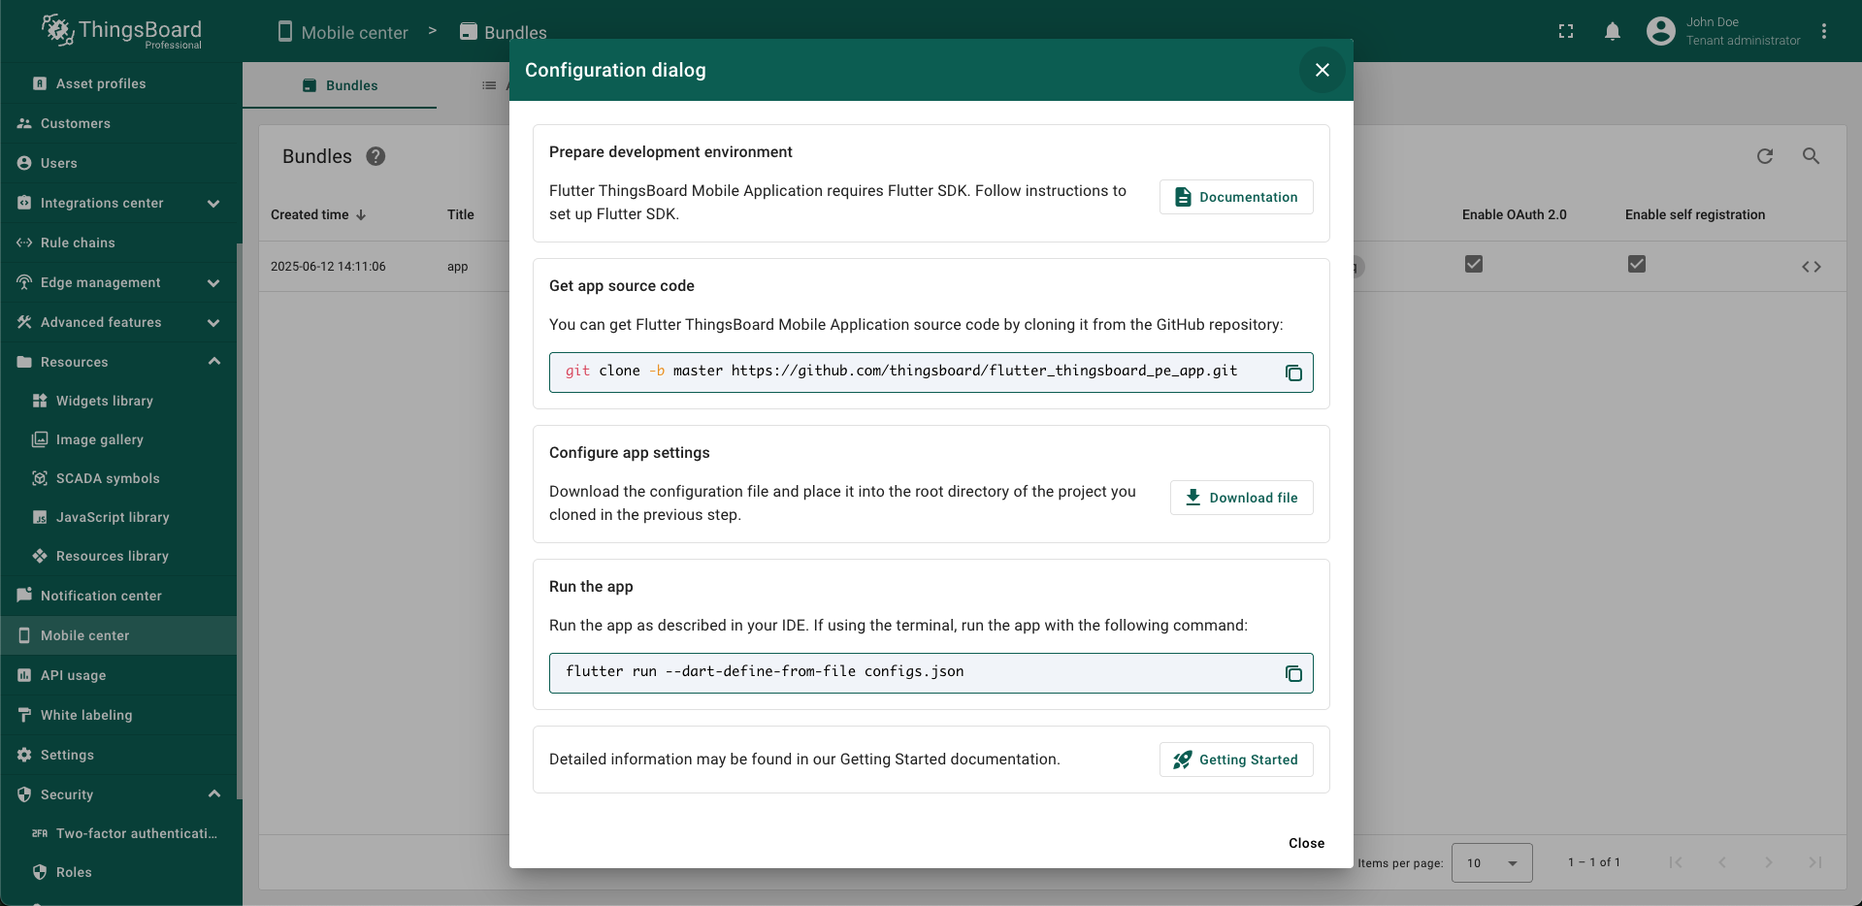
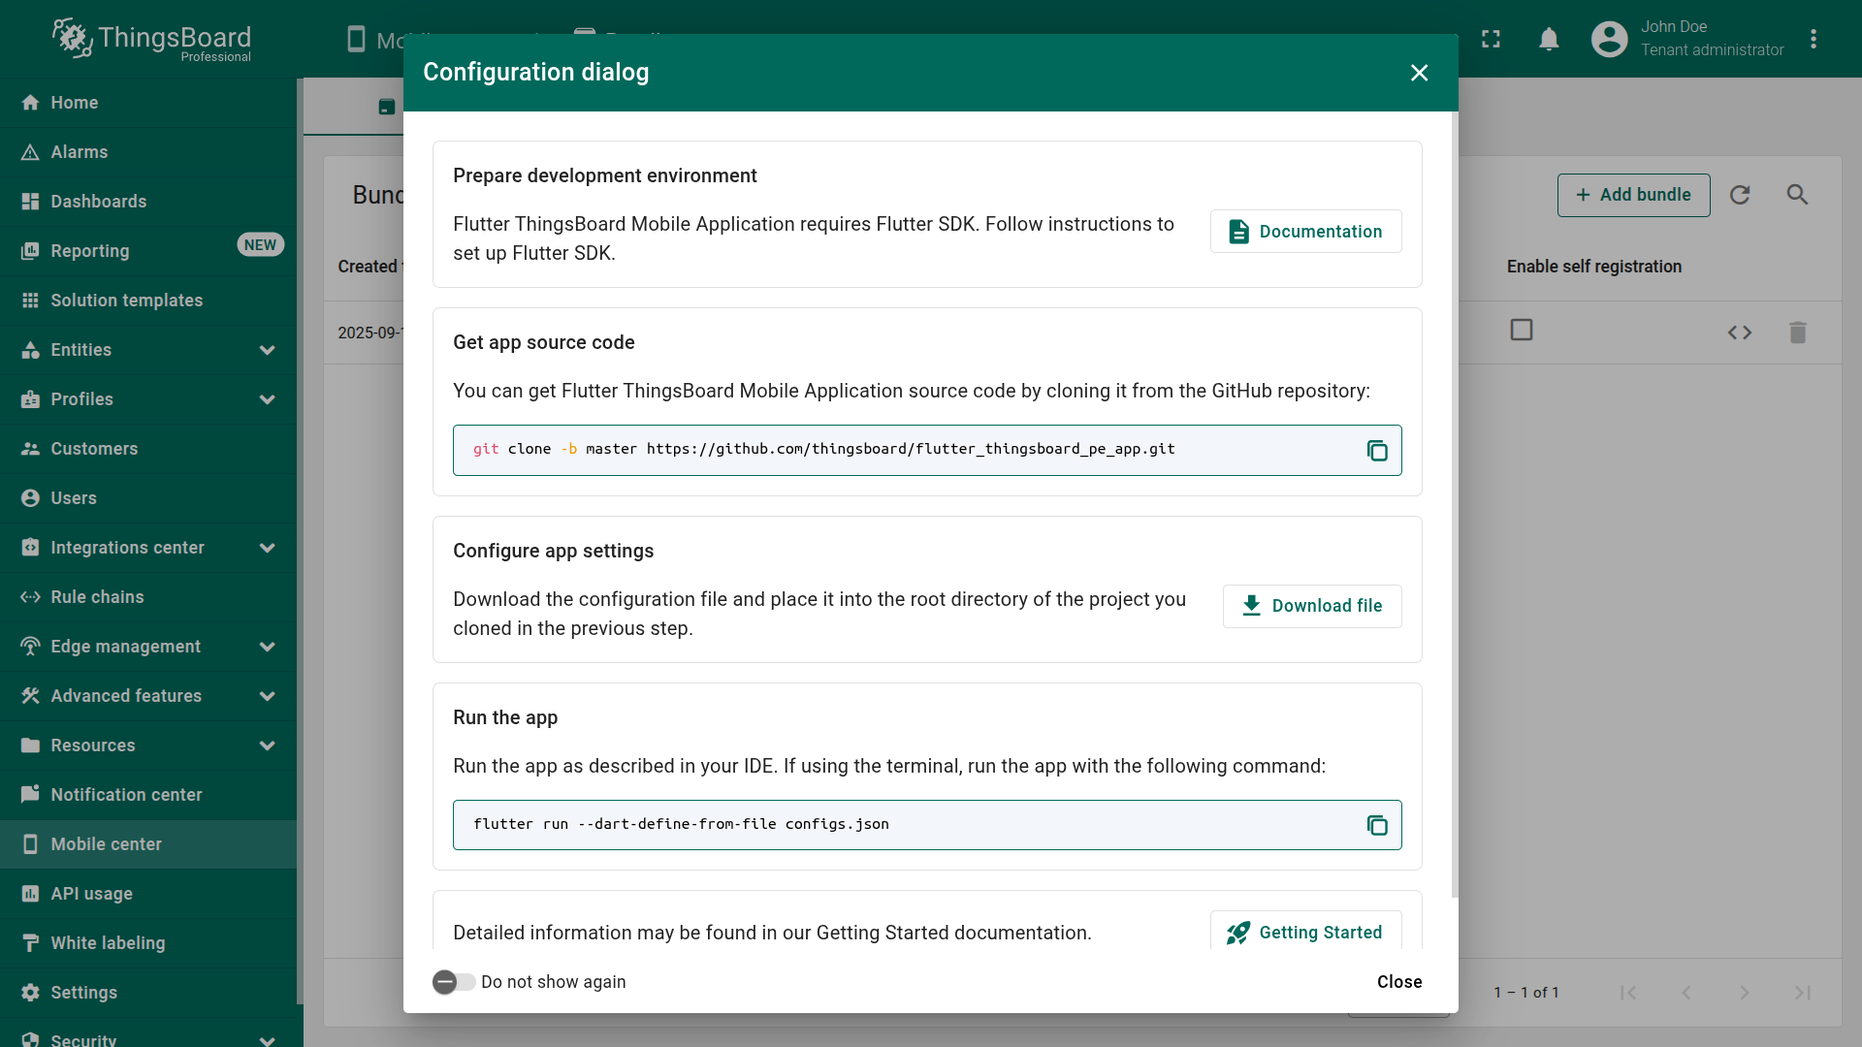
Updated Getting started

Changed region(s): [[0.0, 0.0, 1.0, 1.0], [0.9838, 0.9936, 1.0, 1.0], [0.9531, 0.3105, 0.9838, 0.3415]]

diff --git a/_includes/docs/mobile/getting-started.md b/_includes/docs/mobile/getting-started.md
@@ -17,50 +17,44 @@
 * TOC
 {:toc}
 
-Welcome! This guide will walk you through building and setting up a custom {{appPrefix}} mobile application from scratch for your own instance of the {{appPrefix}} platform.
+Welcome! This guide walks you through creating and configuring your own {{appPrefix}} mobile application from scratch for your {{appPrefix}} instance.
 
-**Before you begin:** Choose an appropriate mobile app version for your {{appPrefix}} platform version using the [compatibility table](/docs/{% if docsPrefix == 'pe/' %}pe/{% endif %}mobile/#compatibility-table). Using incompatible versions may cause sign-in issues or unexpected behavior.
+**Before you begin**, choose the mobile app version that matches your ThingsBoard platform using the [compatibility matrix](/docs/{% if docsPrefix == 'pe/' %}pe/{% endif %}mobile/#compatibility-table). Using incompatible versions is the most common cause of sign‑in issues or unexpected behavior.
 
 ## Prerequisites
 
-{% if docsPrefix == "pe/" or docsPrefix == "paas/" or docsPrefix == "paas/eu/" %}
-- You will need to have access to ThingsBoard Professional Edition. The easiest way is to use [ThingsBoard Cloud](https://thingsboard.io/installations/choose-region/){:target="_blank"} server.
-The alternative option is to install ThingsBoard PE using [installation guide](/docs/user-guide/install/pe/installation-options/){:target="_blank"}.
-{% else %}  
-- You will need to have access to ThingsBoard. The easiest way is to use [Live Demo](https://demo.thingsboard.io/signup){:target="_blank"}. 
-The alternative option is to install ThingsBoard using [installation guide](/docs/user-guide/install/installation-options/){:target="_blank"}.
-{% endif %}
-
-- Prepare the environment for building your {{appPrefix}} mobile application. Install the appropriate Flutter SDK version for your app version from the [compatibility table](/docs/{% if docsPrefix == 'pe/' %}pe/{% endif %}mobile/#compatibility-table) by following [these instructions](https://flutter.dev/docs/get-started/install){:target="_blank"}.
-- For the best development experience and performance, we also recommend configuring your IDE (such as Visual Studio Code) using [these guidelines](https://flutter.dev/docs/get-started/editor){:target="_blank"}.
-- You can also check out the documentation on how to [write your first Flutter app](https://flutter.dev/docs/get-started/test-drive){:target="_blank"}.
+- Access to a {{appPrefix}} instance. The easiest way is to use {{cloudApp}}{:target="_blank"} server. Alternatively, install {{appPrefix}} using the official [installation guide](/docs/user-guide/install/{{docsPrefix}}installation-options/){:target="_blank"}.
+- Prepare the environment for building the {{appPrefix}} mobile application:
+  - [Install the Flutter SDK](https://flutter.dev/docs/get-started/install){:target="_blank"} version that corresponds to your app version (see the [compatibility matrix](/docs/{% if docsPrefix == 'pe/' %}pe/{% endif %}mobile/#compatibility-table){:target="_blank"}).
+  - (Recommended) [Configure your IDE (e.g., Visual Studio Code)](https://flutter.dev/docs/get-started/editor){:target="_blank"} for Flutter development.
+  - If you&#39;re new to Flutter, [review the "Write your first Flutter app" tutorial](https://flutter.dev/docs/get-started/test-drive){:target="_blank"}.
 
 ## Step 1: Create a bundle in the Mobile center
 
-The [Mobile center](/docs/{{docsPrefix}}mobile-center/mobile-center/){:target="_blank"} is your control hub for creating, configuring, and managing mobile applications for your {{appPrefix}} instance. 
-It allows you to quickly launch a custom {{appPrefix}} mobile application tailored to your platform.
+The [Mobile center](/docs/{{docsPrefix}}mobile-center/mobile-center/){:target="_blank"} is your control hub to create, configure, and manage mobile apps. 
+It lets you quickly launch a mobile app tailored to your {{appPrefix}} platform.
 
 <b><font size="4">Create a new bundle</font></b>
 
 A [bundle](/docs/{{docsPrefix}}mobile-center/mobile-center/#bundle){:target="_blank"} contains both your Android and/or iOS app configurations — including [OAuth 2.0](/docs/{{docsPrefix}}user-guide/oauth-2-support/){:target="_blank"} settings {% if docsPrefix == null %}and [layout](/docs/mobile-center/mobile-center/#layout){:target="_blank"} preferences{% endif %}{% if docsPrefix == "pe/" or docsPrefix == "paas/" or docsPrefix == "paas/eu/" %}, [layout](/docs/pe/mobile-center/mobile-center/#layout){:target="_blank"} preferences, and [self registration](/docs/pe/mobile-center/mobile-center/#self-registration){:target="_blank"} options{% endif %} — all in one place for easier setup.
 
 Add a new bundle: 
-- Navigate to the "**Mobile center**" page.
-- On the "**Bundle**" tab, click the "**+ Add bundle**" button in the upper-right corner of the window. 
+- Go to the "**Mobile center**" page.
+- On the "**Bundle**" tab, click the "**+ Add bundle**" button in the top-right corner.
 
-The bundle creation window will open.
+The create bundle dialog opens.
 
 {% assign addNewBundleCE = '
     ===
         image: /images/mobile-center/add-new-bundle-1-ce.png,
-        title: To add a new bundle, navigate to the "**Mobile center**" page and, on the "**Bundle**" tab, click the "**+ Add bundle**" button in the upper-right corner of the window.
+        title: Go to the "**Mobile center**" page → "**Bundle**" tab, then click "**+ Add bundle**" in the upper-right corner.
 '
 %}
 
 {% assign addNewBundlePE = '
     ===
         image: /images/mobile-center/add-new-bundle-1-pe.png,
-        title: To add a new bundle, navigate to the "**Mobile center**" page and, on the "**Bundle**" tab, click the "**+ Add bundle**" button in the upper-right corner of the window.
+title: Go to the "**Mobile center**" page → "**Bundle**" tab, then click "**+ Add bundle**" in the upper-right corner.
 '
 %}
 
@@ -72,48 +66,51 @@ The bundle creation window will open.
 
 <br><b><font size="4">Basic settings</font></b>
 
-Enter the **bundle name** and choose the **mobile app platform(s)** — **Android** or **iOS** — then click "**Create new**" in the corresponding section and proceed with the next steps:
+- Enter a **bundle title**.
+- Click "**Create new**" next to your target mobile platform (**Android** or **iOS**).   
+  This opens the **Add application** dialog:
+  - Enter the **application package** name.
+  - An **Application Secret** will be generated automatically (you can also set your own).
+  - Set the **Published** application status – application is ready for release.
+  - (Optional) Specify **minimum** and **latest** app versions + release notes.
+  - Add **store information**:
+      - for **Android**: 
+        - **Google Play Store link** and **SHA256 certificate fingerprints**.
+      - for **iOS**: 
+        - **App Store link** and **App ID**.
+  - Click "**Add**" to save and continue.
 
-- Enter the **application package** name.
-- An **Application Secret** will be generated automatically (you can also set your own).
-- Set the **Published** application status – application is ready for release.
-- (Optional) Specify minimum and latest app versions + release notes.
-- Add **store information**:
-    - **Android**: **Google Play Store link** and **SHA256 certificate fingerprints**.
-    - **iOS**: **App Store link** and **App ID**.
-- Click "**Add**" to save and continue.
-
-Then click "**Next**".
+- Then click "**Next**".
 
 {% assign addNewBundleCE2 = '
     ===
         image: /images/mobile/getting-started/add-new-bundle-2-ce.png,
-        title: **Android Application**. Enter the **application package** name. Remember autogenerated "**Application Secret**" or input your own. Specify application statuses. Optionally, specify the minimum and latest application versions along with release notes for each. Specify store information: link to the ThingsBoard PE Mobile Application in the Google Play Store, and **SHA256 certificate fingerprints**. Click "**Add**".
-    ===
-        image: /images/mobile/getting-started/add-new-bundle-3-ce.png,
-        title: **iOS Application**. Enter the **application package** name. Remember autogenerated "**Application Secret**" or input your own. Specify application statuses. Optionally, specify the minimum and latest application versions along with release notes for each. Specify store information: link to the ThingsBoard PE Mobile Application in the App Store, and **App ID**. Click "**Add**".
-    ===
-        image: /images/mobile/getting-started/add-new-bundle-4-ce.png,
         title: Click "**Create new**" in the appropriate section (Android Application or iOS Application).
     ===
-        image: /images/mobile/getting-started/add-new-bundle-5-ce.png,
+        image: /images/mobile/getting-started/add-new-bundle-3-ce.png,
         title: **Android Application**. Enter the **application package** name. Remember autogenerated "**Application Secret**" or input your own. Specify application statuses. Optionally, specify the minimum and latest application versions along with release notes for each. Specify store information: link to the ThingsBoard PE Mobile Application in the Google Play Store, and **SHA256 certificate fingerprints**. Click "**Add**".
+    ===
+        image: /images/mobile/getting-started/add-new-bundle-4-ce.png,
+        title: **iOS Application**. Enter the **application package** name. Remember autogenerated "**Application Secret**" or input your own. Specify application statuses. Optionally, specify the minimum and latest application versions along with release notes for each. Specify store information: link to the ThingsBoard PE Mobile Application in the App Store, and **App ID**. Click "**Add**".
+    ===
+        image: /images/mobile/getting-started/add-new-bundle-5-ce.png,
+        title: Click "**Next**".
 '
 %}
 
 {% assign addNewBundlePE2 = '
     ===
         image: /images/mobile/getting-started/add-new-bundle-2-pe.png,
-        title: **Android Application**. Enter the **application package** name. Remember autogenerated "**Application Secret**" or input your own. Specify application statuses. Optionally, specify the minimum and latest application versions along with release notes for each. Specify store information: link to the ThingsBoard PE Mobile Application in the Google Play Store, and **SHA256 certificate fingerprints**. Click "**Add**".
-    ===
-        image: /images/mobile/getting-started/add-new-bundle-3-pe.png,
-        title: **iOS Application**. Enter the **application package** name. Remember autogenerated "**Application Secret**" or input your own. Specify application statuses. Optionally, specify the minimum and latest application versions along with release notes for each. Specify store information: link to the ThingsBoard PE Mobile Application in the App Store, and **App ID**. Click "**Add**".
-    ===
-        image: /images/mobile/getting-started/add-new-bundle-4-pe.png,
         title: Click "**Create new**" in the appropriate section (Android Application or iOS Application).
     ===
+        image: /images/mobile/getting-started/add-new-bundle-3-pe.png,
+        title: **Android Application**. Enter the **application package** name. Remember autogenerated "**Application Secret**" or input your own. Specify application statuses. Optionally, specify the minimum and latest application versions along with release notes for each. Specify store information: link to the ThingsBoard PE Mobile Application in the Google Play Store, and **SHA256 certificate fingerprints**. Click "**Add**". 
+    ===
+        image: /images/mobile/getting-started/add-new-bundle-4-pe.png,
+        title: **iOS Application**. Enter the **application package** name. Remember autogenerated "**Application Secret**" or input your own. Specify application statuses. Optionally, specify the minimum and latest application versions along with release notes for each. Specify store information: link to the ThingsBoard PE Mobile Application in the App Store, and **App ID**. Click "**Add**".
+    ===
         image: /images/mobile/getting-started/add-new-bundle-5-pe.png,
-        title: **Android Application**. Enter the **application package** name. Remember autogenerated "**Application Secret**" or input your own. Specify application statuses. Optionally, specify the minimum and latest application versions along with release notes for each. Specify store information: link to the ThingsBoard PE Mobile Application in the Google Play Store, and **SHA256 certificate fingerprints**. Click "**Add**".
+        title: Click "**Next**".
 '
 %}
 
@@ -123,7 +120,15 @@ Then click "**Next**".
 {% include images-gallery.liquid imageCollection=addNewBundleCE2 %}
 {% endif %}
 
-<br><b><font size="4">[Optional]</font></b>
+<br><b><font size="4">Optional: Authentication & Layout</font></b>
+
+- **OAuth 2.0 providers** — Configure external [OAuth](/docs/{{docsPrefix}}user-guide/oauth-2-support/){:target="_blank"} for the {{appPrefix}} mobile app if required. Click "**Next**" when done.
+
+- **Configure layout** — Customize the navigation menu for quick access to features and dashboards. Add menu items, set icons/labels, and reorder entries. Click "**Add**" to finish creating the package.
+
+{% if docsPrefix == "pe/" or docsPrefix == "paas/" or docsPrefix == "paas/eu/" %}
+- **Self registration** - Customize the [self registration](/docs/{{docsPrefix}}mobile-center/mobile-center/#self-registration){:target="_blank"} page for your new customers.
+{% endif %}
 
 Configure authentication in the {{appPrefix}} mobile app using external [OAuth 2.0](/docs/{{docsPrefix}}user-guide/oauth-2-support/){:target="_blank"} providers, {% if docsPrefix == null %} and configure the [layout](/docs/{{docsPrefix}}mobile-center/mobile-center/#layout){:target="_blank"} for quick access to the features and dashboards you use most frequently{% endif %}{% if docsPrefix == "pe/" or docsPrefix == "paas/" or docsPrefix == "paas/eu/" %}, configure the [layout](/docs/{{docsPrefix}}mobile-center/mobile-center/#layout){:target="_blank"} for quick access to the features and dashboards you use most frequently and customize the [self registration](/docs/{{docsPrefix}}mobile-center/mobile-center/#self-registration){:target="_blank"} page{% endif %} for your new customers.
 
@@ -160,22 +165,29 @@ Click "**Add**" to finalize adding the bundle.
 
 <br><b><font size="4">Configuration dialog</font></b>
 
-After adding the bundle, a dialog window will appear with step-by-step instructions to guide you through the next phase of setup and deployment.
-
-Follow these steps carefully to successfully configure and deploy your custom {{appPrefix}} mobile application.
+After adding the bundle, a step-by-step dialog appears to guide you through the remaining setup and deployment steps. 
+Follow it carefully to complete {{appPrefix}} mobile application configuration.
 
 {% capture 1_7_config_tip %}
-**Note: Available from ThingsBoard 4.2 and mobile app version 1.7**
+**Available since {{appPrefix}} 4.2 and mobile app 1.7**
 
-Starting with version 1.7 app version and 4.2 platform version, we've significantly improved the app configuration mechanism. Now you can download a configuration file directly from the platform, place it in the root directory of your custom application's code, and you're ready to go. 
+Starting with {{appPrefix}} 4.2 and mobile app 1.7, the app configuration flow has been significantly improved.
+You can now download a configuration file directly from the platform and place it in the root of app&#39;s codebase — no manual edits required.
 
-When using 1.7 app version with pre 4.2 platform version, config file must be created manually, please follow [this github ticket](https://github.com/thingsboard/flutter_thingsboard_pe_app/issues/263#issuecomment-3103099009) for the instructions. 
-
-**Important:** When building or running your application, add the `--dart-define-from-file configs.json` flag to your Flutter commands. 
-
-You can maintain multiple configuration files by using different names and passing the appropriate file name to the `--dart-define-from-file` flag.
+When using 1.7 app version with pre 4.2 platform version, config file must be created manually, please follow [this github ticket](https://github.com/thingsboard/flutter_thingsboard_pe_app/issues/263#issuecomment-3103099009) for the instructions.
 {% endcapture %}
 {% include templates/info-banner.md content=1_7_config_tip %}
+
+**Important:**   
+When building or running the app, include the Dart define flag:
+
+```
+flutter run --dart-define-from-file configs.json
+```
+{:.copy-code}
+
+You can maintain multiple configuration files by using different names. Pass the appropriate filename to `--dart-define-from-file` flag.
+
 {% if docsPrefix == "pe/" or docsPrefix == "paas/" or docsPrefix == "paas/eu/" %}
 ![image](/images/mobile/getting-started/add-new-bundle-11-pe.png)
 {% else %}  
@@ -199,11 +211,9 @@ Finnally, depending on your mobile platform (Android or iOS), you should see a r
 </div>
 
 {% capture run_tip %}
-**Tip:** The first time you run on a physical device, it can take a while to load.
-Afterward, you can use hot reload for quick updates.
+**Tip:** On first launch on a physical device, startup can take a while. After that, use hot reload for quick updates.
 
-**Save** also performs a hot reload if the app is running.
-When running an app directly from the console using `flutter run`, enter `r` to perform hot reload.
+If launching from the console with `flutter run`, press `r` to hot reload.
 {% endcapture %}
 {% include templates/info-banner.md content=run_tip %}
 
@@ -539,4 +549,4 @@ We&#39;ll do our best to help!
 ## Next steps
 
 - [Customize your app](/docs/{{docsPrefix}}mobile/customization){:target="_blank"} - Learn how to customize your {{appPrefix}} Mobile Application to meet your requirements.
-- [Publish your app](/docs/{{docsPrefix}}mobile/release){:target="_blank"} - Learn how to build release and publish your version of {{appPrefix}} Mobile Application to Google Play or App Store.
+- [Build and release {{appPrefix}} Mobile Application](/docs/{{docsPrefix}}mobile/release){:target="_blank"} - Learn how to build release and publish your version of {{appPrefix}} Mobile Application to Google Play or App Store.

diff --git a/_includes/docs/mobile/release.md b/_includes/docs/mobile/release.md
@@ -6,24 +6,45 @@
 * TOC
 {:toc}
 
+<table style="width:auto">
+   <thead>
+     <tr>
+	 <td style="text-align: center"><strong><em>Only for mobile app versions 1.7.x and later.</em></strong></td>
+     </tr>
+   </thead>
+</table> 
+
 {% capture pre_1_7_0_link %}
-Important Notice: Please use [this guide](/docs/{{peDocsPrefix}}mobile/release-before-v1.7/) for pre 1.7.x app publish instructions
+If you need to publish a version earlier than **1.7.x**, please use the [legacy guide](/docs/{{peDocsPrefix}}mobile/release-before-v1.7/){:target="_blank"} for pre‑1.7 releases.
 {% endcapture %} {% include templates/info-banner.md content=pre_1_7_0_link %}
 
-## Configure the App
+This guide walks you through building and releasing the {{appPrefix}} mobile app for **iOS** and **Android**. It assumes you created an app package in the [Mobile center](/docs/{{docsPrefix}}mobile-center/mobile-center/){:target="_blank"} and downloaded the generated configuration file.
 
-Your app package name and app name will come preconfigured from your Mobile Center in the configuration file that you downloaded after app bundle creation in the Mobile Center.
+<b><font size="3">Before you start</font></b>
 
-If you need to change some settings, we recommend updating them in the Mobile Center and redownloading the configuration file from the Mobile Center. This ensures consistency and prevents configuration conflicts.
-
-![image](/images/mobile/{{peDocsPrefix}}release-redownload-config.png)
+**1. Mobile center config ready**. You have created the bundle in Mobile center and downloaded the **configs.json** file. 
 
 {% capture config_note %}
-**Note:** Always use the Mobile Center to manage your app configuration rather than manually editing configuration files. This approach ensures all settings remain synchronized and reduces the risk of errors.
+ℹ **Why Mobile center?** It centrally manages your package name, app name, notification icon set, and other runtime settings. Using Mobile Center keeps builds consistent and avoids config drift.
 {% endcapture %}
 {% include templates/info-banner.md content=config_note %}
 
-## Build and Release an IOS Version
+If you need to change any settings:
+  - Update them in [Mobile center](/docs/{{docsPrefix}}mobile-center/mobile-center/){:target="_blank"}.
+  - Re‑download configs.json.
+  - Replace the file in your project.
+
+  {% capture config_note %}
+  🔒 Do not edit configs.json manually. Always manage settings in Mobile center to keep all environments in sync and reduce misconfigurations.
+  {% endcapture %}
+  {% include templates/info-banner.md content=config_note %}
+
+**2. Store access**. Apple Developer account (App Store Connect) and Google Play Console access.<br>
+**3. Tooling installed**. Flutter SDK, Xcode (for iOS), Android Studio / Android SDK (for Android).
+
+![image](/images/mobile/{{peDocsPrefix}}release-redownload-config.png)
+
+## iOS — Build & Release
 
 When preparing a release version of your app for publishing on the [App Store](https://developer.apple.com/app-store/submissions/) and [TestFlight](https://developer.apple.com/testflight/), follow the official ["Build and release an IOS app"](https://docs.flutter.dev/deployment/ios) guide.
 
@@ -37,7 +58,7 @@ flutter build ipa --no-tree-shake-icons --dart-define-from-file configs.json
 ```
 {: .copy-code}
 
-## Build and Release an Android Version
+## Android — Build & Release
 
 When preparing a release version of your app for publishing on [Google Play](https://support.google.com/googleplay/android-developer/answer/9859152?hl=en), follow the official ["Build and release an Android app"](https://docs.flutter.dev/deployment/android) guide.
 
@@ -51,8 +72,10 @@ flutter build appbundle --no-tree-shake-icons --dart-define-from-file configs.js
 ```
 {: .copy-code}
 
-### Build Commands Explanation
+### Build commands explanation
 
-**`--no-tree-shake-icons`**: This flag prevents Flutter from removing unused icons during the build process, this will allow mobile app to display any icon, that was set to notification in the notification center.
+**`--no-tree-shake-icons`** 
+    Prevents Flutter from removing unused icons during the build process, this will allow mobile app to display any icon, that was set to notification in the notification center.
 
-**`--dart-define-from-file configs.json`**: This flag loads your app configuration from the JSON file downloaded from the Mobile Center, ensuring your app uses the correct settings for production.
+**`--dart-define-from-file configs.json`**
+    Loads your app configuration from the JSON file downloaded from the Mobile Center, ensuring your app uses the correct settings for production.
